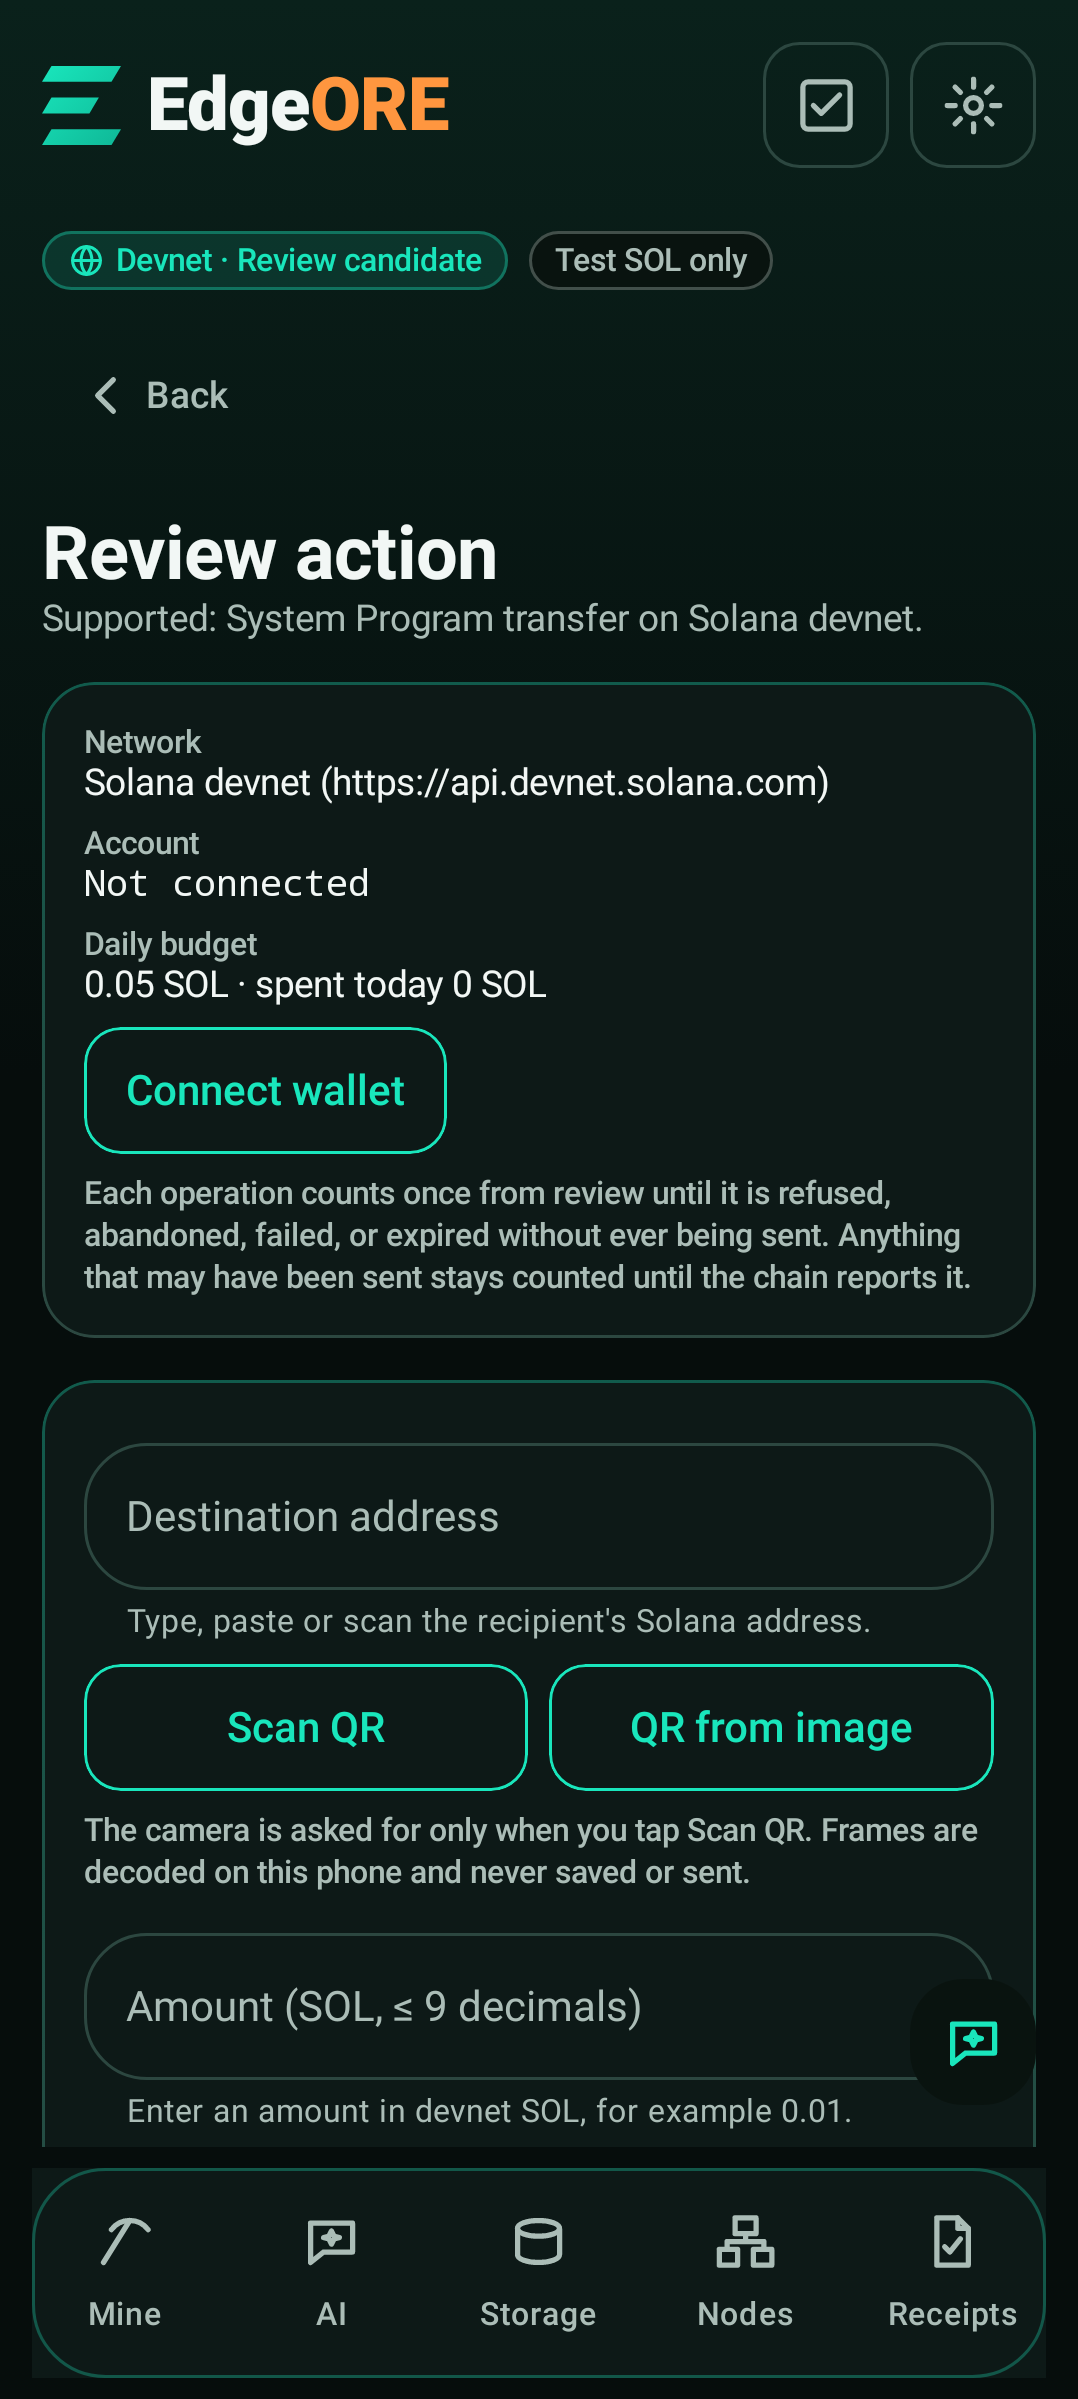
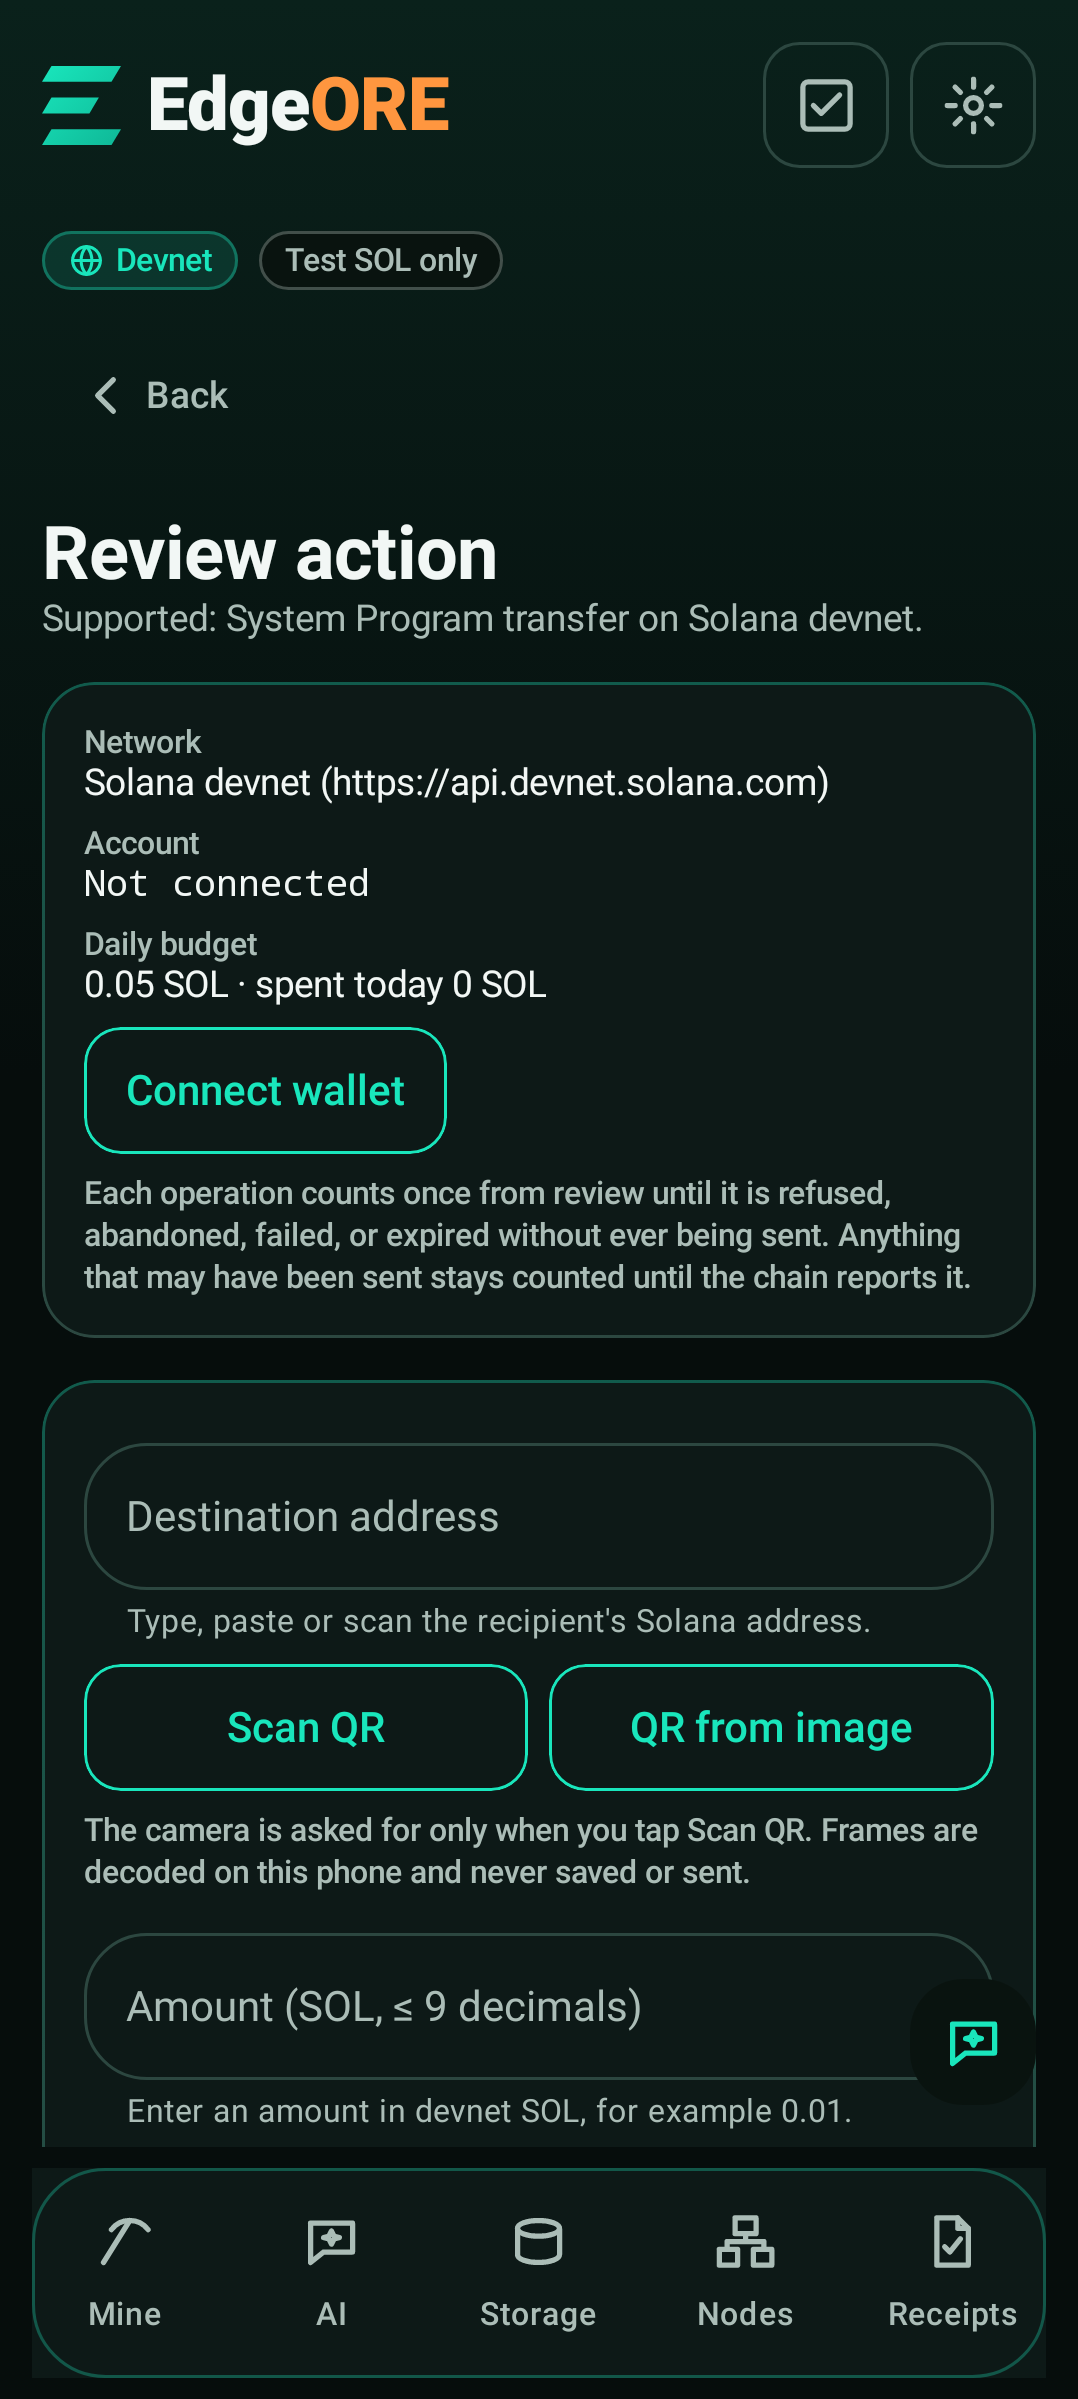
Refresh inspected ORE visuals and close capped-deploy and scanner CI regressions

Changed region(s): [[0.1837, 0.0925, 0.7041, 0.1234]]

diff --git a/app/src/test/java/com/edgeore/app/OreInvalidBalanceTest.kt b/app/src/test/java/com/edgeore/app/OreInvalidBalanceTest.kt
@@ -1,0 +1,34 @@
+package com.edgeore.app
+
+import com.edgeore.app.solana.OreDeployLimits
+import com.edgeore.app.solana.OreDeployNetwork
+import com.edgeore.app.solana.OreDeployReview
+import org.junit.Assert.assertEquals
+import org.junit.Assert.assertFalse
+import org.junit.Test
+
+class OreInvalidBalanceTest {
+    @Test
+    fun negativeBalanceCannotOverflowIntoSpendableFunds() {
+        val signer = ByteArray(32) { (it + 1).toByte() }
+        val blockhash = ByteArray(32) { 7 }
+        val cluster = OreDeployNetwork.MAINNET_CLUSTER
+        for (balance in listOf(Long.MIN_VALUE, -1L, 0L, 9_999_999L)) {
+            assertEquals(0L, OreDeployLimits.max(balance, cluster))
+            val draft =
+                OreDeployReview.prepare(
+                    signer,
+                    1,
+                    1,
+                    1,
+                    blockhash,
+                    balance,
+                    0,
+                    10_000_000_000L,
+                    cluster,
+                )
+            assertFalse(draft.approvable)
+            assertEquals(0, draft.message.size)
+        }
+    }
+}

diff --git a/app/src/test/java/com/edgeore/app/OreMainnetCapTest.kt b/app/src/test/java/com/edgeore/app/OreMainnetCapTest.kt
@@ -41,15 +41,6 @@ class OreMainnetCapTest {
         assertEquals(10_000_000L, OreDeployLimits.max(rich, mainnet))
     }
 
-    @Test fun invalidNegativeBalanceCannotOverflowIntoSpendableFunds() {
-        for (balance in listOf(Long.MIN_VALUE, -1L, 0L, 9_999_999L)) {
-            assertEquals(0L, OreDeployLimits.max(balance, mainnet))
-            val draft = OreDeployReview.prepare(signer, 1, 1, 1, bh, balance, 0, rich, mainnet)
-            assertFalse(draft.approvable)
-            assertEquals(0, draft.message.size)
-        }
-    }
-
     @Test fun overCapIsRefusedBeforeAnyMessageExists() {
         for (total in listOf(10_000_001L, 25_000_000L, 100_000_000L, Long.MAX_VALUE)) {
             assertEquals("Above the mainnet per-deploy cap of 0.01 SOL", OreDeployLimits.refusal(total, 25, rich, mainnet))

diff --git a/app/src/test/java/com/edgeore/app/screens/UxScreenshotTest.kt b/app/src/test/java/com/edgeore/app/screens/UxScreenshotTest.kt
@@ -55,7 +55,7 @@ class OnboardingScreenshotTest {
     @Test fun onboardingThenTabs() {
         rule.onRoot().captureRoboImage("$out/07-onboarding.png", roborazziOptions = options)
         assertTrue(rule.onAllNodes(hasText("What it does not do")).fetchSemanticsNodes().isNotEmpty())
-        assertTrue(rule.onAllNodes(hasText("Devnet only")).fetchSemanticsNodes().isNotEmpty())
+        assertTrue(rule.onAllNodes(hasText("Devnet by default")).fetchSemanticsNodes().isNotEmpty())
         rule.onNode(hasText("I understand · continue") and hasClickAction()).performScrollTo().performClick()
         rule.waitForIdle()
         assertTrue(rule.onAllNodes(hasText("Mine")).fetchSemanticsNodes().isNotEmpty())

diff --git a/scripts/test_mobsf_policy.py b/scripts/test_mobsf_policy.py
@@ -15,7 +15,7 @@ class PolicyTest(unittest.TestCase):
         with tempfile.TemporaryDirectory() as tmp:
             path = Path(tmp) / 'network.xml'
             path.write_text(config or '<network-security-config><base-config cleartextTrafficPermitted="false"/><domain-config cleartextTrafficPermitted="true"><domain includeSubdomains="false">127.0.0.1</domain></domain-config></network-security-config>')
-            report = {'code_analysis': {'findings': {'cbc_padding_oracle': {'files': files or {}}}}}
+            report = {'package_name': 'com.edgeore.app', 'code_analysis': {'findings': {'cbc_padding_oracle': {'files': files or {}}}}}
             return policy.evaluate(report, {'high': [{'title': title}]}, path)
 
     def test_loopback_is_explicitly_reviewed(self):
@@ -37,6 +37,8 @@ class PolicyTest(unittest.TestCase):
     def test_missing_scorecard_is_error(self):
         with self.assertRaises(ValueError):
             policy.evaluate({}, {}, 'unused')
+        with self.assertRaises(ValueError):
+            policy.evaluate({}, {'high': []}, 'unused')
 
 
 if __name__ == '__main__':

diff --git a/scripts/mobsf-policy.py b/scripts/mobsf-policy.py
@@ -7,6 +7,8 @@ from pathlib import Path
 
 
 def evaluate(report, scorecard, config):
+    if report.get('package_name') != 'com.edgeore.app' or not isinstance(report.get('code_analysis', {}).get('findings'), dict):
+        raise ValueError('Report package or code findings missing')
     findings = scorecard.get('high')
     if not isinstance(findings, list):
         raise ValueError('Scorecard high findings missing')

diff --git a/README.md b/README.md
@@ -17,9 +17,9 @@ Hackathon package: [`docs/pitch/HACKATHON.md`](docs/pitch/HACKATHON.md) · [`doc
 |---|---|
 | Live ORE v3 board | Reads the mainnet Board and Round accounts and shows a 5×5 grid with per-square SOL, round and motherlode. |
 | Opt-in Mainnet switch | ORE Deploy starts on devnet. Mainnet only after you tap **Mainnet** and tick "I understand this deploy uses real SOL that I may lose". |
-| 0.01 SOL cap | Each mainnet deploy is capped at 0.01 SOL in total across the selected squares. An over-cap amount is refused before any message or wallet request exists. |
+| 0.01 SOL cap | Each mainnet deploy is capped at 0.01 SOL in total across the selected squares. An over-cap amount is refused before any message or wallet request exists. Account rent and network fees are additional; this is not a total-wallet-debit cap. |
 | Exact-message review | The review screen decodes the exact bytes: program, round, squares, amount per square, total, fee, blockhash and message SHA-256. Mainnet shows a copper warning panel. |
-| MWA signing | Your wallet signs through Mobile Wallet Adapter. The app never holds keys. The returned bytes must match the review, or the result is refused. |
+| MWA signing | Your wallet signs through Mobile Wallet Adapter. The app never holds wallet private keys. The returned bytes must match the review, or the result is refused. |
 | Single submit | Submit is a separate tap. The attempt is recorded before sending. A timeout stays "outcome unknown". No automatic retry. |
 | Signed receipts | Every outcome becomes a receipt signed with an Android Keystore key (labelled weaker software fallback if Keystore is unavailable). |
 | Receipt checker | A standalone JVM checker verifies the integrity of signed receipt contents. It does not prove an on-chain outcome. |
@@ -32,7 +32,9 @@ Hackathon package: [`docs/pitch/HACKATHON.md`](docs/pitch/HACKATHON.md) · [`doc
 - **Devnet evidence:** [`evidence/devnet-session/`](evidence/devnet-session/README.md) has the receipt-settlement program, a receipt checkpoint, and a verified v3 receipt. That transfer and checkpoint were sent from a laptop CLI, not from the app.
 - **Pending device recording:** MWA signing of a mainnet deploy on a real device is pending device recording.
 
-### Tests
+### Historical tests
+
+These recorded counts describe prior source revisions, not the consolidated submission candidate. Fresh candidate results are recorded in `evidence/submission-hardening/`.
 
 | Suite | Result |
 |---|---|
@@ -101,16 +103,6 @@ Exit codes: **0 accepted**, **1 rejected**, **2 invocation/read/build error**. A
 For a meaningful tamper demo, preserve the original and change `lamports` inside one receipt's signed `body` in a copy, keeping valid JSON and leaving the recorded digest and signature unchanged.
 
 **Verification boundary:** signatures protect signed receipt contents, not every descriptive field in the export. Self-contained integrity under an included key does not establish trusted provenance. Offline verification does not confirm a transaction on Solana or prove physical work, provider acknowledgement or payment.
-
-## Verify a receipt outside Android
-
-```bash
-bash gradlew -p tools/receipt-checker test installDist
-bash scripts/verify-receipt.sh original.json
-bash scripts/verify-receipt.sh original.json --trusted-key device-spki.der
-```
-
-Exit codes: **0 accepted**, **1 rejected**, **2 invocation/read/build error**. The checker verifies the integrity of signed receipt contents. It does not confirm a transaction on Solana. See [checker instructions](tools/receipt-checker/README.md).
 
 ## License and attribution
 

diff --git a/docs/submission/SUBMISSION.md b/docs/submission/SUBMISSION.md
@@ -7,14 +7,14 @@ Deadline: 13 Oct 2026, 05:29 IST. Category: Mobile. No other tracks are claimed.
 **One-liner:** EdgeORE is an Android ORE client for Solana Seeker. Every ORE deploy is reviewed, capped, signed in your own wallet, and receipted.
 
 **Description:**
-EdgeORE is a Kotlin/Compose Android app for ORE v3 on Solana. It shows the live mainnet ORE board. It lets you deploy SOL into a round only through an opt-in Mainnet switch with a risk tick and a hard 0.01 SOL per-deploy cap. Every deploy goes through an exact-message review, is signed in your own wallet via Mobile Wallet Adapter (the app never holds keys), is checked byte-for-byte on return, and is submitted once with a separate tap. You approve every deploy, and there is no auto-retry. Each outcome becomes an Android Keystore signed receipt, and an open-source checker verifies the integrity of signed receipt contents. A daily check-in keeps a streak and points saved on your phone. The optional AI advisor, node and storage show a *Set up* step until you configure them.
+EdgeORE is a Kotlin/Compose Android app for ORE v3 on Solana. It shows the live mainnet ORE board. It lets you deploy SOL into a round only through an opt-in Mainnet switch with a risk tick and a hard 0.01 SOL per-deploy cap. Every deploy goes through an exact-message review, is signed in your own wallet via Mobile Wallet Adapter (the app never holds wallet private keys), is checked byte-for-byte on return, and is submitted once with a separate tap. You approve every deploy, and there is no auto-retry. Each outcome becomes an Android Keystore signed receipt, and an open-source checker verifies the integrity of signed receipt contents. A daily check-in keeps a streak and points saved on your phone. The optional AI advisor, node and storage show a *Set up* step until you configure them.
 
 **Status:**
 - Hackathon build 0.1.0-clockin. No reward, income or earnings claims. Deployed SOL may be lost.
 - Tested against the live ORE mainnet program (local fork, not a live transaction): two runs (rounds 437646 and 437756), program sha256 `b16a1002…a7dd5bd`. Both passed. Nothing was sent.
 - Devnet evidence: `evidence/devnet-session/` (sent from a laptop CLI, not the app).
 - Device mainnet MWA signing: [FILL IN after recording: "shown in the demo video, tx <signature>" OR "pending device recording"].
-- Tests (separate, never summed): Android 390 run / 382 passed / 8 skipped · receipt checker 17 · LiteSVM 27 · live ORE mainnet program, local fork 2.
+- Historical tests (separate, never summed): Android 390 run / 382 passed / 8 skipped · receipt checker 17 · LiteSVM 27 · live ORE mainnet program, local fork 2.
 
 **APK link:** [FILL IN: publish the draft release (assets EdgeORE-76eea59-demo-debug.apk / .zip) or link another public APK. A draft link is not installable by judges.]
 

diff --git a/evidence/submission-hardening/README.md b/evidence/submission-hardening/README.md
@@ -1,0 +1,22 @@
+# Consolidated submission hardening
+
+Candidate: PR #27, `submission/harden-and-merge`. Integrates PR #20, #22, #23, #24, #25 and #26, preserving the current ORE-first UI and the concrete private disclosure policy.
+
+## Changes
+
+- Refuse malformed negative balances without subtraction overflow in ORE MAX; refusal has no transaction bytes.
+- Preserve the 10,000,000-lamport mainnet deployed-amount cap, wallet signing for every deploy, separate submission and observation-only recovery. Rent and network fees remain additional.
+- Fail closed on incomplete MobSF scan evidence. Scan a release-shaped, unminified variant with a disposable CI signature, not an owner release key. Production release builds retain R8 and private signing configuration.
+- Retain raw scanner findings; only loopback-only traffic and the AndroidX biometric platform helper receive bounded, tested triage. Unknown high findings block. MobSF image is pinned to the observed v4.3.0 digest.
+- Refresh native screenshot baselines from CI-generated app renders only after inspection; verification remains separate. These are JVM images, not device evidence.
+- Remove duplicate receipt-checker instructions and label historical counts as historical.
+
+## Fresh local checks
+
+Executed in the Linux Codex workspace with Python 3.11+, JDK 17. Logs in this directory. Policy tests, gateway (17), offline kit (22), manifest tests (9) and scanner policy tests (5) passed. Shell syntax and `git diff --check` passed. The Android Gradle bootstrap failed because services.gradle.org is network-blocked, so Android verification runs on GitHub Actions against the candidate.
+
+## Limits
+
+No wallet signature, mainnet transaction, program deployment, registry publication or store publication was performed. Device MWA signing, real mainnet landing, interrupted-submit device recovery and final production artifact qualification remain NOT_RUN. A source merge does not establish ORE or SKR prize eligibility. The generated narrated presentation is not a device-recorded demo.
+
+CI identities, final test counts, reviewed screenshot provenance and APK checksum will be recorded here after the exact candidate completes.

diff --git a/docs/pitch/HACKATHON.md b/docs/pitch/HACKATHON.md
@@ -4,11 +4,11 @@
 
 **Category:** Mobile. No other tracks are claimed.
 
-**Built:** a live ORE v3 mainnet board and grid. An opt-in Mainnet switch with a risk tick. A 0.01 SOL per-deploy cap. Exact-message review, MWA signing (the app never holds keys), and a single submit with no auto-retry. Android Keystore signed receipts. A receipt checker that verifies the integrity of signed receipt contents. A daily check-in: streak and points saved on your phone. The optional AI advisor, node and storage need your own setup and show a *Set up* step until configured.
+**Built:** a live ORE v3 mainnet board and grid. An opt-in Mainnet switch with a risk tick. A 0.01 SOL per-deploy cap. Exact-message review, MWA signing (the app never holds wallet private keys), and a single submit with no auto-retry. Android Keystore signed receipts. A receipt checker that verifies the integrity of signed receipt contents. A daily check-in: streak and points saved on your phone. The optional AI advisor, node and storage need your own setup and show a *Set up* step until configured.
 
 **Evidence:** tests against the live ORE mainnet program (local fork, LiteSVM, not live transactions) (two runs, rounds 437646 and 437756, program sha256 `b16a1002…a7dd5bd`). Devnet evidence is in [`evidence/devnet-session/`](../../evidence/devnet-session/README.md). Device mainnet signing: pending device recording.
 
-**Tests (separate, never summed):** Android 390 run / 382 passed / 8 skipped · receipt checker 17 · LiteSVM 27 · live ORE mainnet program, local fork 2.
+**Historical tests (separate, never summed):** Android 390 run / 382 passed / 8 skipped · receipt checker 17 · LiteSVM 27 · live ORE mainnet program, local fork 2.
 
 **Rules:** one approval per transaction, you approve every deploy, no reward or income claims, Hackathon build 0.1.0-clockin.
 

diff --git a/docs/screenshots/README.md b/docs/screenshots/README.md
@@ -108,3 +108,8 @@ Intentional: `full/01-mine-full.png` (the central "ORE board · Read-only · mai
 All screen baselines intentionally change with the new palette, card/control shapes, icon family and Mine layout. The native routes and review handlers remain intact. New `mint/` renders cover the MWA chooser, Settings, Basic help and review at 200% font size on a 360×800 dp viewport. The navigation becomes horizontally scrollable with wider targets at large text sizes. Dialog/sheet renders select their own root window, not a simulated phone capture. Help time and unavailable telemetry are fixed only through explicit test seams. Settings uses the explicit **JVM render** build label in tests; it never substitutes that label on a device.
 
 See `docs/design/mint-implementation-report.md` and `evidence/mint-holographic/RESULTS.md` for the exact source and final commands. These images are JVM layout evidence only.
+
+
+## Consolidated ORE submission visuals
+
+Reviewed proposed baselines from CI run 38294730206, source head `884e87fd28c7034b74f9e767c6c5a993a912f81d`, synthetic merge `2c7c0311604215b59f25541c77dda20d85e8fb52`, artifact 11768081772. These are API 28 JVM renders with unobserved device/RPC fixtures and a fixed clock. The recorder ran 29 tests: 28 passed; one onboarding assertion still expected the superseded "Devnet only" heading. Its image was rendered; the assertion is now updated to "Devnet by default". All 27 PNGs were inspected in contact sheets; final verification is independent of this record run. No image establishes a device run, wallet approval, mainnet landing or provider outcome.

diff --git a/docs/qualification-status.md b/docs/qualification-status.md
@@ -1,6 +1,6 @@
-# Qualification status: `0.2.8-review` (`main`)
+# Historical qualification status: `0.2.8-review`
 
-This is the **current** ledger. Every claim names the source that implements it and the evidence that checked it.
+This is a **historical** ledger. Current consolidation evidence is in [`../evidence/submission-hardening/`](../evidence/submission-hardening/README.md). Every claim names the source that implements it and the evidence that checked it.
 Older documents (`final-qualification.md`, `qualification-report.md`, `release-baseline.md`, `submission-checklist.md`,
 `device-commands.md`, `device-walkthrough.md`, `acceptance-matrix.md`, `roadmap.md`, `demo-storyboard.md`) describe the
 frozen `0.2.6-review` candidate and are kept as history.

diff --git a/docs/HARDENING-20.md b/docs/HARDENING-20.md
@@ -2,6 +2,8 @@
 
 Response to the external "Review & Hardening Guide" (Oct 2026). Status words: **DONE** (in code, machine gates run),
 **NOT_RUN** (prepared, needs an owner step or a tool missing here), **BLOCKED** (cannot be done from this repo).
+This document records the original branch pass; current consolidation and scanner triage are recorded in [`../evidence/submission-hardening/`](../evidence/submission-hardening/README.md).
+
 Nothing here is a production-readiness or earnings claim. Device, wallet and devnet gates remain NOT_RUN.
 
 | # | Item | Status | Commit(s) |
